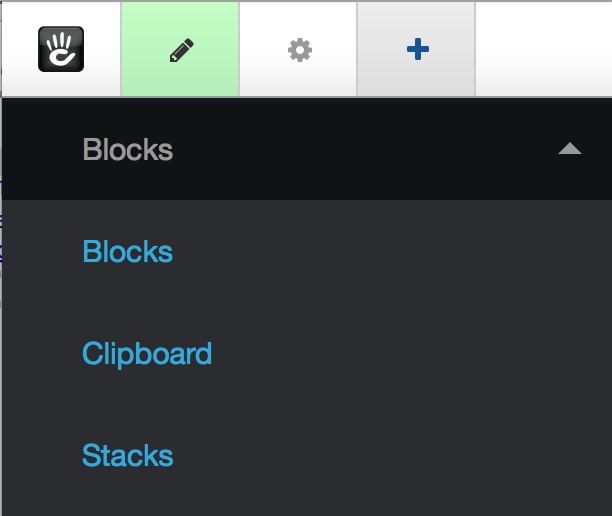
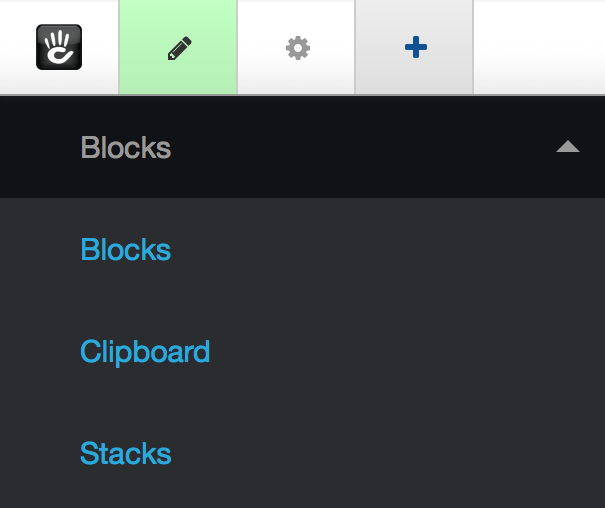
Tweaks

diff --git a/manuscript/common_content.md b/manuscript/common_content.md
@@ -43,5 +43,5 @@ Blocks can be copied to a 'clipboard' within concrete5, allowing them to be easi
 2. At the top of the panel, click the dropdown and select **Clipboard** from the options.
 3. Blocks within the clipboard will be displayed. Drag the block you wish to place into an editable area.
 
-{width=70%}
+{width=50%}
 ![The block panel drop down where the clipboard can be selected](images/clipboard.png) 
